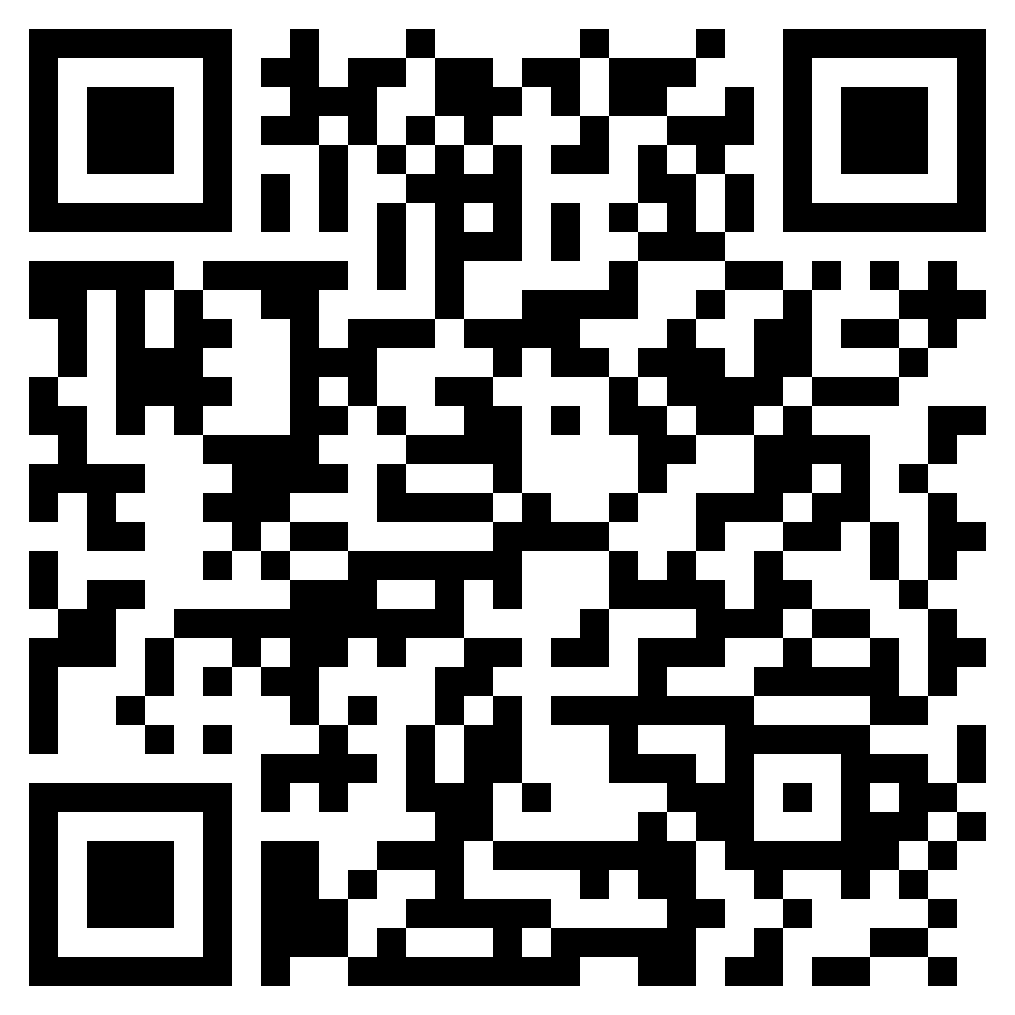
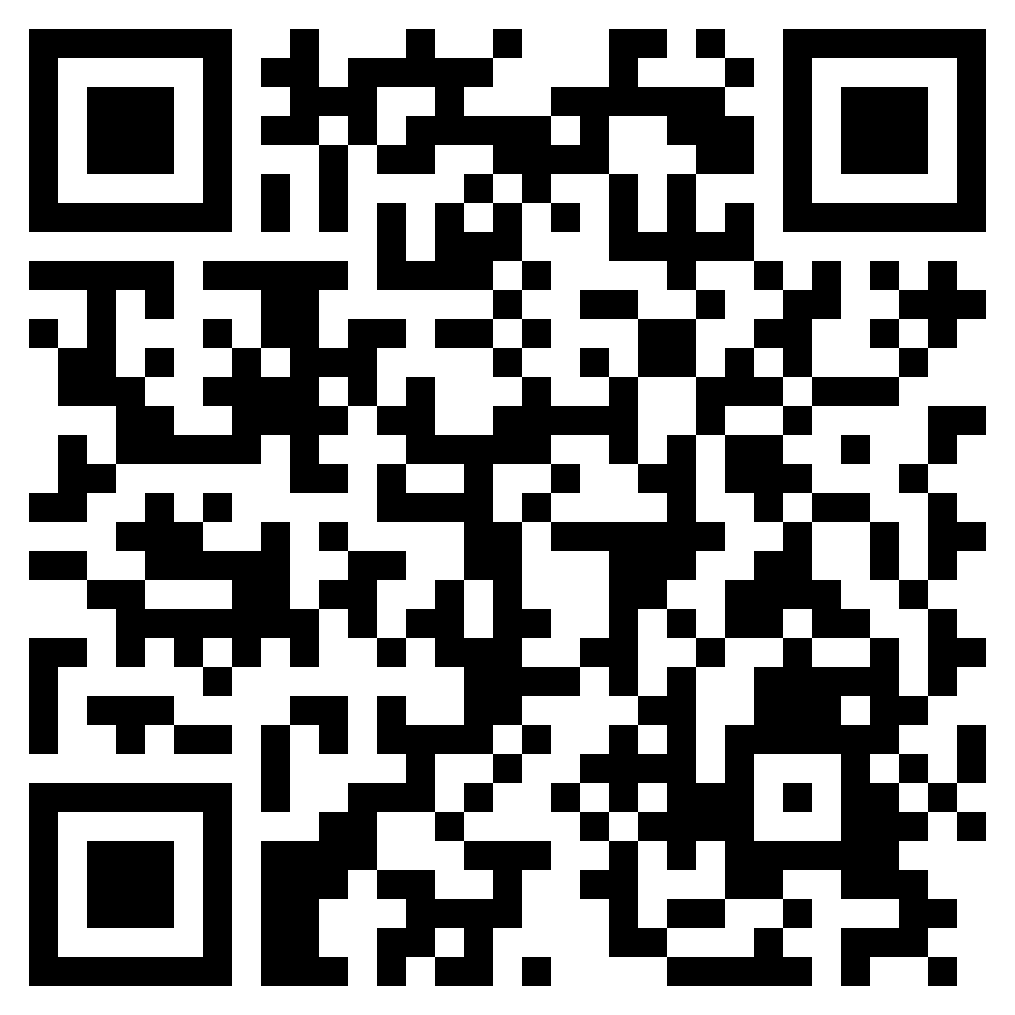
changed download apk url

diff --git a/src/components/Join/index.tsx b/src/components/Join/index.tsx
@@ -39,7 +39,7 @@ function Join() {
               <p className="font-normal text-baes leading-[150%] text-wrap break-words">4F06ECEEE4CC7FDD88E817CCD2E4B58390FE89A94345C35832832A68114BA94F</p>
               <div className="z-30 mt-4">
                 <a
-                  href="https://drive.google.com/file/d/16WF8V-0Rp-2DJEmDW678VOgG-d-7RFge/view?usp=sharing"
+                  href="https://storage.googleapis.com/townesquare/Townesquare_Android.apk"
                   target="_blank"
                   rel="noreferrer"
                   className="hidden md:block justify-center items-center text-center px-6 py-2 text-base text-white w-[280px] h-[50px] leading-4 font-medium bg-secondary-cyan hover:bg-[#00EEDC] active:bg-[#AAAAAA] rounded-full cursor-pointer text-[#121212]">
